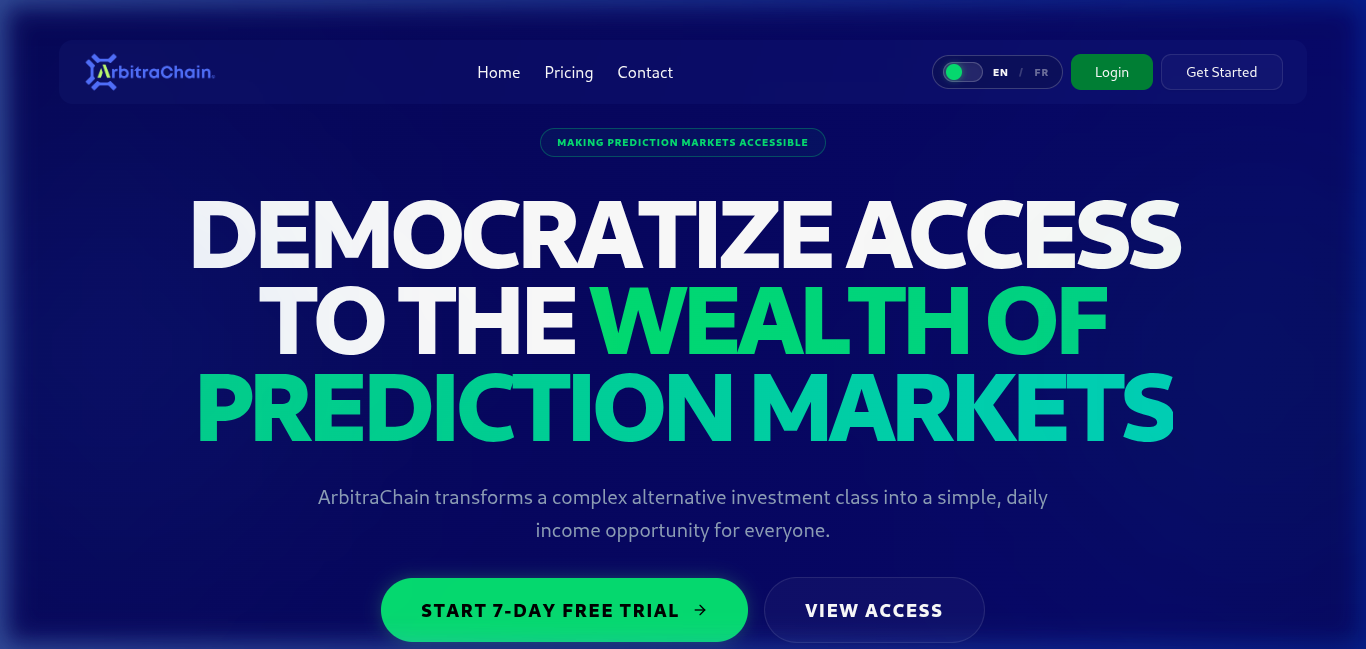
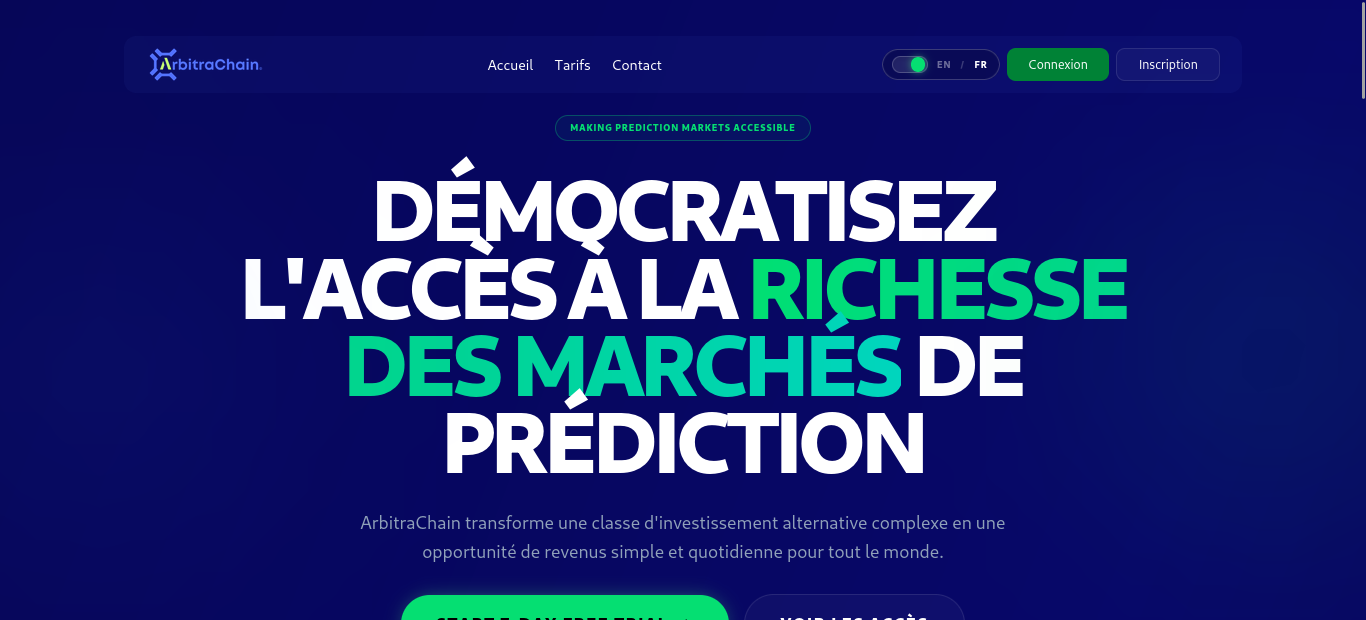
Refactor: About section redesign with perfectly-filled Bento Grid, LED glow stats, Hero visibility fix, and project count update

diff --git a/src/components/About.tsx b/src/components/About.tsx
@@ -1,5 +1,5 @@
-import React from 'react';
-import { motion } from 'framer-motion';
+import React, { useEffect, useState } from 'react';
+import { motion, animate } from 'framer-motion';
 import { translations } from '../data/translations';
 import { skills } from '../data/skills';
 
@@ -8,58 +8,109 @@ interface AboutProps {
     darkMode: boolean;
 }
 
+const CountingNumber = ({ value }: { value: number }) => {
+    const [count, setCount] = useState(0);
+
+    useEffect(() => {
+        const controls = animate(0, value, {
+            duration: 2,
+            onUpdate: (latest) => setCount(Math.floor(latest)),
+        });
+        return () => controls.stop();
+    }, [value]);
+
+    return <span>{count}</span>;
+};
+
 export default function About({ language, darkMode }: AboutProps) {
     const t = translations;
     const cardClass = darkMode
         ? 'glass-card'
         : 'bg-white/80 border-gray-200 backdrop-blur-md';
-    const borderColor = darkMode ? 'border-gray-800' : 'border-gray-200';
+    const borderColor = darkMode ? 'border-zinc-800' : 'border-zinc-200';
     const textSecondary = darkMode ? 'text-gray-400' : 'text-gray-600';
     const textTertiary = darkMode ? 'text-gray-500' : 'text-gray-500';
 
+    const highPriority = ['C', 'C++', 'Django', 'Django REST Framework', 'Git', 'Docker'];
+    const mediumPriority = ['Python', 'Rust', 'PostgreSQL', 'GitHub Actions', 'SDL'];
+
+    // Preprocessing function to fill holes
+    const processSkills = (targetCols: number) => {
+        const flattened = Object.entries(skills).flatMap(([category, items]) =>
+            items.map(skill => ({ ...skill, category }))
+        );
+
+        let currentRowUsage = 0;
+        const result: any[] = [];
+
+        flattened.forEach((skill) => {
+            let span = highPriority.includes(skill.name) || mediumPriority.includes(skill.name) ? 2 : 1;
+
+            // Limit span to targetCols
+            if (span > targetCols) span = targetCols;
+
+            if (currentRowUsage + span > targetCols) {
+                // Expand previous item if there's a hole
+                if (currentRowUsage < targetCols && result.length > 0) {
+                    result[result.length - 1].currentSpan += (targetCols - currentRowUsage);
+                }
+                currentRowUsage = 0;
+            }
+
+            result.push({ ...skill, currentSpan: span });
+            currentRowUsage += span;
+        });
+
+        // Fill last row hole
+        if (currentRowUsage > 0 && currentRowUsage < targetCols && result.length > 0) {
+            result[result.length - 1].currentSpan += (targetCols - currentRowUsage);
+        }
+
+        return result;
+    };
+
+    // We can't easily do different spans for different breakpoints with one pass
+    // So we'll use a slightly simpler CSS-first approach or generate classes
+    const getSpanClass = (span: number) => {
+        if (span === 1) return 'col-span-1';
+        if (span === 2) return 'col-span-2';
+        if (span === 3) return 'col-span-3';
+        if (span === 4) return 'col-span-4';
+        if (span === 5) return 'col-span-5';
+        if (span === 6) return 'col-span-6';
+        return 'col-span-1';
+    };
+
+    // For simplicity and perfect filling on LG, we'll use the LG processed list
+    // On smaller screens, the layout might have small holes or we can just let flex/grid wrap naturally
+    // BUT the user really wants NO holes on the main view.
+    const processedSkills = processSkills(6);
+
     return (
-        <div className="min-h-screen px-6 lg:px-12 py-24">
-            <div className="max-w-6xl mx-auto">
+        <div className="min-h-screen py-24 overflow-x-hidden">
+            <div className="max-w-6xl mx-auto px-6 lg:px-12 space-y-24">
+                {/* Header Section */}
                 <motion.div
                     initial={{ opacity: 0, y: 20 }}
                     whileInView={{ opacity: 1, y: 0 }}
                     viewport={{ once: true }}
                     transition={{ duration: 0.8 }}
-                    className="mb-16"
                 >
                     <p className={`text-sm uppercase tracking-widest text-zinc-500 font-bold mb-4`}>{t[language].about.subtitle}</p>
-                    <h2 className="text-5xl font-bold mb-8">{t[language].about.title}</h2>
+                    <h2 className="text-5xl font-bold">{t[language].about.title}</h2>
                 </motion.div>
 
-                <motion.div
-                    initial={{ opacity: 0, y: 20 }}
-                    whileInView={{ opacity: 1, y: 0 }}
-                    viewport={{ once: true }}
-                    transition={{ duration: 0.8, delay: 0.2 }}
-                    className="grid grid-cols-1 md:grid-cols-3 gap-6 mb-12"
-                >
-                    {[
-                        { label: t[language].about.stats.projects_label, value: t[language].about.stats.projects },
-                        { label: t[language].about.stats.tech_label, value: t[language].about.stats.tech },
-                        { label: t[language].about.stats.experience_label, value: t[language].about.stats.experience },
-                    ].map((stat, i) => (
-                        <div key={i} className={`${cardClass} p-8 rounded-3xl border text-center hover-glow transition-all group relative overflow-hidden`}>
-                            <div className="absolute inset-0 bg-gradient-to-br from-zinc-500/5 to-transparent opacity-0 group-hover:opacity-100 transition-opacity" />
-                            <p className="text-5xl font-bold mb-2 tracking-tighter">{stat.value}</p>
-                            <p className={`text-xs uppercase tracking-[0.2em] ${textSecondary} font-bold`}>{stat.label}</p>
-                        </div>
-                    ))}
-                </motion.div>
-
+                {/* Top Content: Intro & Sidebar */}
                 <div className="grid grid-cols-1 lg:grid-cols-3 gap-12">
-                    <div className={`lg:col-span-2 space-y-6 text-lg ${textSecondary} leading-relaxed`}>
-                        <p>{t[language].about.description1}</p>
-                        <p>{t[language].about.description2}</p>
-                        <p>{t[language].about.description3}</p>
+                    <div className="lg:col-span-2 space-y-8">
+                        <div className={`space-y-6 text-xl ${textSecondary} leading-relaxed font-medium`}>
+                            <p>{t[language].about.description1}</p>
+                            <p>{t[language].about.description2}</p>
+                        </div>
                     </div>
 
                     <div className="space-y-8">
-                        <div className={`${cardClass} p-6 rounded-2xl border`}>
+                        <div className={`${cardClass} p-6 rounded-2xl border ${borderColor}`}>
                             <h3 className="font-bold text-xl mb-4 text-zinc-500">{t[language].about.formation}</h3>
                             <div className="space-y-3">
                                 <div>
@@ -75,7 +126,7 @@ export default function About({ language, darkMode }: AboutProps) {
                             </div>
                         </div>
 
-                        <div className={`${cardClass} p-6 rounded-2xl border`}>
+                        <div className={`${cardClass} p-6 rounded-2xl border ${borderColor}`}>
                             <h3 className="font-bold text-xl mb-4 text-zinc-500">{t[language].about.languages}</h3>
                             <div className="space-y-2">
                                 <p><span className="font-medium">{t[language].about.lang_fr}:</span> {t[language].about.lang_native}</p>
@@ -84,37 +135,95 @@ export default function About({ language, darkMode }: AboutProps) {
                         </div>
                     </div>
                 </div>
+            </div>
 
+            {/* Full Width Stats Section */}
+            <div className="mt-20 mb-24 w-full relative">
+                <div className={`w-full h-px ${darkMode ? 'bg-zinc-800/50' : 'bg-zinc-200'} mb-8`} />
+                <div className="px-6 lg:px-24">
+                    <motion.div
+                        initial={{ opacity: 0 }}
+                        whileInView={{ opacity: 1 }}
+                        viewport={{ once: true }}
+                        transition={{ duration: 1 }}
+                        className="flex flex-col xl:flex-row items-center xl:items-end justify-between gap-12"
+                    >
+                        <div className="flex items-baseline gap-4">
+                            <span className={`text-[8rem] md:text-[10rem] font-mono font-bold leading-none tracking-tighter ${darkMode ? 'text-zinc-100 drop-shadow-[0_0_30px_rgba(255,255,255,0.2)]' : 'text-zinc-900 drop-shadow-[0_0_20px_rgba(0,0,0,0.1)]'}`}>
+                                <CountingNumber value={t[language].about.stats.total} />
+                            </span>
+                            <span className="text-4xl md:text-6xl font-bold text-zinc-500 leading-none">+</span>
+                        </div>
+
+                        <div className="flex-1 max-w-4xl space-y-8 text-center xl:text-left pb-4">
+                            <div className="space-y-4">
+                                <p className={`text-[14px] uppercase tracking-[0.6em] font-black ${darkMode ? 'text-zinc-500' : 'text-zinc-400'}`}>
+                                    {t[language].about.stats.total_label}
+                                </p>
+                                <h4 className={`text-2xl md:text-4xl font-black leading-tight ${darkMode ? 'text-zinc-100' : 'text-zinc-900'}`}>
+                                    {(t[language].about.stats as any).details}
+                                </h4>
+                            </div>
+                            <div className="flex flex-wrap justify-center xl:justify-start gap-4">
+                                {['Web', 'Low-level', 'DevOps'].map((tag) => (
+                                    <span key={tag} className={`px-8 py-2 text-[12px] uppercase tracking-[0.3em] font-black rounded-full border ${borderColor} ${darkMode ? 'bg-zinc-900/50 text-zinc-400' : 'bg-zinc-100 text-zinc-600'}`}>
+                                        {tag}
+                                    </span>
+                                ))}
+                            </div>
+                        </div>
+                    </motion.div>
+                </div>
+                <div className={`w-full h-px ${darkMode ? 'bg-zinc-800/50' : 'bg-zinc-200'} mt-8`} />
+            </div>
+
+            {/* Truly Full Width Bento Skills Section - Perfectly Filled */}
+            <div className="w-full px-6 lg:px-24 pb-24 max-w-[2000px] mx-auto">
                 <motion.div
                     initial={{ opacity: 0, y: 40 }}
                     whileInView={{ opacity: 1, y: 0 }}
                     viewport={{ once: true }}
                     transition={{ duration: 0.8 }}
-                    className={`mt-16 pt-16 border-t ${borderColor}`}
+                    className="space-y-16"
                 >
-                    <h3 className="font-bold text-2xl mb-8">{t[language].about.skills_title}</h3>
-                    <div className="flex flex-wrap gap-4">
-                        {Object.entries(skills).flatMap(([category, items]) =>
-                            items.map((skill) => (
+                    <h3 className="font-bold text-4xl text-center md:text-left tracking-tight">{t[language].about.skills_title}</h3>
+
+                    <div className="grid grid-cols-2 md:grid-cols-4 lg:grid-cols-6 gap-4 md:gap-6 w-full">
+                        {processedSkills.map((skill, index) => {
+                            const isHigh = highPriority.includes(skill.name);
+                            const isMed = mediumPriority.includes(skill.name);
+                            const spanClass = getSpanClass(skill.currentSpan);
+
+                            return (
                                 <motion.div
                                     key={skill.name}
-                                    whileHover={{ scale: 1.05, y: -5 }}
-                                    className={`${cardClass} px-6 py-4 rounded-2xl border flex flex-col items-center justify-center gap-3 min-w-[120px] hover-glow transition-all duration-300 group`}
+                                    whileHover={{ y: -8, scale: 1.01 }}
+                                    className={`${cardClass} p-8 md:p-10 rounded-[2.5rem] border ${borderColor} flex flex-col items-center justify-center gap-6 group hover-glow transition-all duration-300 ${spanClass} min-h-[220px] relative overflow-hidden`}
                                 >
-                                    <div className="w-12 h-12 flex items-center justify-center transition-transform duration-300 group-hover:scale-110">
+
+                                    <div className={`flex items-center justify-center transition-transform duration-500 group-hover:scale-110 ${isHigh ? 'w-24 h-24' : 'w-14 h-14'}`}>
                                         <img
                                             src={`https://cdn.simpleicons.org/${skill.logo}/${darkMode ? 'white' : 'black'}`}
                                             alt={skill.name}
-                                            className="w-8 h-8 object-contain opacity-70 group-hover:opacity-100 transition-opacity"
+                                            className={`object-contain transition-all duration-500 ${isHigh ? 'w-20 h-20 opacity-100' : 'w-10 h-10 opacity-60 group-hover:opacity-100'}`}
                                         />
                                     </div>
-                                    <span className="text-sm font-bold tracking-tight">{skill.name}</span>
-                                    <span className="text-[10px] uppercase tracking-widest text-zinc-500 font-medium">
-                                        {t[language].about.skill_cats[category as keyof typeof t.en.about.skill_cats]}
-                                    </span>
+                                    <div className="text-center">
+                                        <span className={`${isHigh ? 'text-2xl font-black' : isMed ? 'text-xl font-bold' : 'text-base font-bold'} tracking-tight block uppercase text-zinc-500 group-hover:text-inherit transition-colors`}>
+                                            {skill.name}
+                                        </span>
+                                        <p className="text-[10px] uppercase tracking-widest font-bold text-zinc-500 mt-2">
+                                            {skill.name === 'SDL' ? (language === 'fr' ? 'Outil' : 'Tool') :
+                                                skill.name === 'C' ? (language === 'fr' ? 'Langage' : 'Language') :
+                                                    t[language].about.skill_cats[skill.category as keyof typeof t.en.about.skill_cats]}
+                                        </p>
+                                    </div>
+
+                                    {/* Active border indicator on hover */}
+                                    <div className={`absolute bottom-0 left-0 h-1 bg-zinc-500/10 w-0 group-hover:w-full transition-all duration-500`} />
                                 </motion.div>
-                            ))
-                        )}
+                            );
+                        })}
                     </div>
                 </motion.div>
             </div>

diff --git a/src/data/translations.ts b/src/data/translations.ts
@@ -15,13 +15,18 @@ export const translations = {
             subtitle: 'À propos',
             description1: 'Étudiant en 3ème année d\'expertise informatique à EPITECH Benin, passionné d\'informatique et en recherche d\'un stage pour acquérir plus d\'expériences et perfectionner mes compétences.',
             description2: 'Mon parcours m\'a permis de développer une expertise solide en architecture logicielle, DevOps et développement full-stack. De l\'architecture de moteurs de jeu haute performance en C++ à la conception de plateformes d\'automation avec Django, j\'aime relever des défis techniques complexes.',
-            description3: 'Ma récente victoire au DISCOVERY 2025 (1ère place) témoigne de ma capacité à innover et à collaborer efficacement en équipe pour créer des solutions digitales impactantes. À ce jour, j\'ai réalisé plus de 120 projets techniques (incluant mes projets académiques à EPITECH et mes projets personnels) allant du développement web aux systèmes bas niveaux.',
+            description_tech: 'Mon expertise se divise principalement en deux piliers : le développement Web (avec des projets comme ArbitraChain, JEB, AREA) et la programmation bas niveau (Minishell, Zappy, etc.). Cette dualité me permet de concevoir des systèmes allant de l\'abstraction applicative à la performance brute.',
             stats: {
-                projects: '120+',
-                projects_label: 'Projets réalisés',
-                tech: '30+',
+                total: 60,
+                total_label: 'Projets au total',
+                school: 50,
+                school_label: 'Projets scolaires',
+                personal: 10,
+                personal_label: 'Projets personnels',
+                details: 'dont 50+ scolaires et 10+ personnels',
+                tech: 30,
                 tech_label: 'Technologies',
-                experience: '3+',
+                experience: 3,
                 experience_label: 'Expériences'
             },
             formation: 'Formation',
@@ -241,13 +246,18 @@ export const translations = {
             subtitle: 'About',
             description1: '3rd-year Software Engineering student at EPITECH Benin, passionate about IT and looking for an internship to gain more experience and perfect my skills.',
             description2: 'My background has allowed me to develop solid expertise in software architecture, DevOps, and full-stack development. From architecting high-performance C++ game engines to designing automation platforms with Django, I enjoy tackling complex technical challenges.',
-            description3: 'My recent victory at DISCOVERY 2025 (1st place) demonstrates my ability to innovate and collaborate effectively in a team to create impactful digital solutions. To date, I have completed over 120 technical projects (including my academic projects at EPITECH and my personal projects) ranging from web development to low-level systems.',
+            description_tech: 'My expertise is primarily divided into two pillars: Web development (with projects like ArbitraChain, JEB, AREA) and low-level programming (Minishell, Zappy, etc.). This duality allows me to design systems ranging from application abstraction to raw performance.',
             stats: {
-                projects: '120+',
-                projects_label: 'Projects completed',
-                tech: '30+',
+                total: 60,
+                total_label: 'Total projects',
+                school: 50,
+                school_label: 'Academic projects',
+                personal: 10,
+                personal_label: 'Personal projects',
+                details: 'including 50+ academic and 10+ personal',
+                tech: 30,
                 tech_label: 'Technologies',
-                experience: '3+',
+                experience: 3,
                 experience_label: 'Experiences'
             },
             formation: 'Education',

diff --git a/src/components/Hero.tsx b/src/components/Hero.tsx
@@ -28,7 +28,7 @@ export default function Hero({ language, setCurrentPage, darkMode }: HeroProps) 
     }, [isColor]);
 
     return (
-        <div className="min-h-screen flex items-center justify-center px-6 lg:px-12 relative overflow-hidden pt-24 lg:pt-0">
+        <div className="min-h-screen flex items-center justify-center px-6 lg:px-12 relative overflow-hidden pt-32 lg:pt-32">
             {/* Background Glows */}
             <div className="absolute top-1/4 -left-20 w-96 h-96 bg-zinc-500/5 rounded-full blur-[120px] pointer-events-none"></div>
             <div className="absolute bottom-1/4 -right-20 w-96 h-96 bg-zinc-500/5 rounded-full blur-[120px] pointer-events-none"></div>

diff --git a/src/data/skills.ts b/src/data/skills.ts
@@ -1,6 +1,6 @@
 export const skills = {
     languages: [
-        { name: 'C', logo: 'c' },
+        { name: 'SDL', logo: 'libsdl' },
         { name: 'C++', logo: 'cplusplus' },
         { name: 'Rust', logo: 'rust' },
         { name: 'Python', logo: 'python' },
@@ -33,6 +33,6 @@ export const skills = {
         { name: 'Railway', logo: 'railway' },
         { name: 'SFML', logo: 'sfml' },
         { name: 'Ncurses', logo: 'gnubash' },
-        { name: 'SDL', logo: 'libsdl' }
+        { name: 'C', logo: 'c' }
     ]
 };
